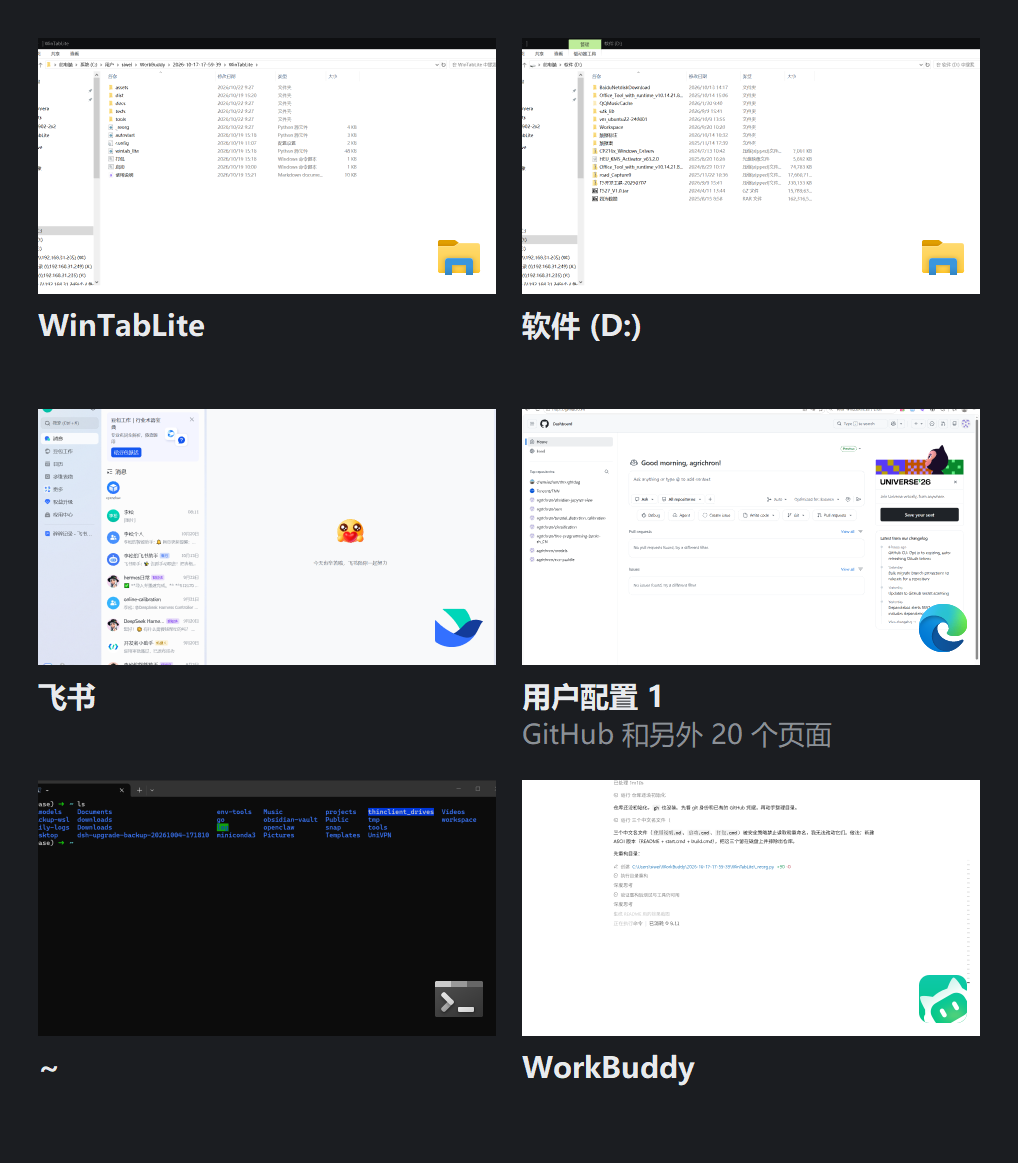
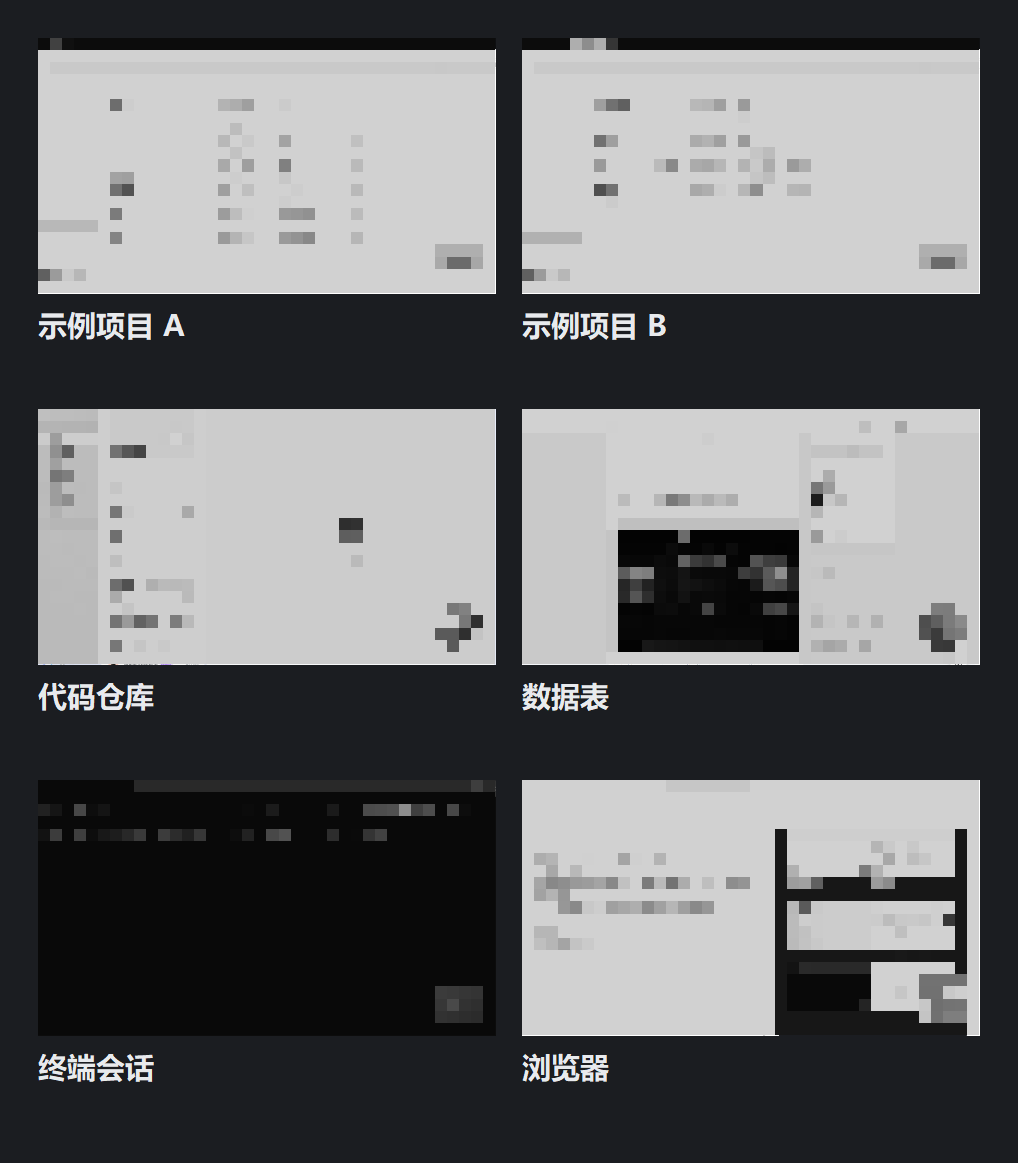
docs: 预览图脱敏，新增 --anon 截图开关
- --anon：标题替换为示例文本，缩略图按 _dest_rects 逐格打灰度马赛克，UI 保持清晰
- docs/preview.png 改用脱敏版

diff --git a/wintab_lite.py b/wintab_lite.py
@@ -730,6 +730,32 @@ class Drawer(QWidget):
                    "#2d9cdb", "#f2c94c", "#56ccf2", "#bb6bd9", "#6fcf97")
         return QColor(palette[zlib.crc32(key.encode("utf-8")) % len(palette)])
 
+    ANON_NAMES = ("示例项目 A", "示例项目 B", "代码仓库", "数据表", "终端会话",
+                  "浏览器", "聊天窗口", "文件管理", "设置", "文档")
+
+    def anonymize(self):
+        """把窗口标题换成示例文本（截图用，避免泄露真实项目名）。"""
+        self.cells = [(c[0], self.ANON_NAMES[i % len(self.ANON_NAMES)], "", c[3])
+                      for i, c in enumerate(self.cells)]
+
+    def mosaic_regions(self, img, block=12):
+        """给每个缩略图区域打灰度马赛克；标题和面板 UI 保持清晰。"""
+        from PIL import Image, ImageEnhance
+        for r in self._dest_rects.values():
+            box = (max(0, r.x()), max(0, r.y()),
+                   min(img.width, r.right()), min(img.height, r.bottom()))
+            w, h = box[2] - box[0], box[3] - box[1]
+            if w < 8 or h < 8:
+                continue
+            crop = img.crop(box)
+            small = crop.resize((max(1, w // block), max(1, h // block)), Image.NEAREST)
+            tile = small.resize((w, h), Image.NEAREST)
+            # 去色 + 压暗：明确的"已遮挡"观感，不会用颜色暗示原内容
+            tile = ImageEnhance.Color(tile).enhance(0.0)
+            tile = ImageEnhance.Brightness(tile).enhance(0.82)
+            img.paste(tile, box[:2])
+        return img
+
     def _icon_for(self, exe):
         if not exe:
             return None
@@ -1218,17 +1244,24 @@ def main():
         QTimer.singleShot(600, app.drawer.open)
 
         def _grab():
-            from PIL import ImageGrab
+            from PIL import Image, ImageGrab
             d = app.drawer
+            anon = "--anon" in sys.argv
+            if anon:
+                d.anonymize()          # 标题换成示例文本
             d._place_thumbs()
+            d.update()
             app.qapp.processEvents()
             dpr = d.devicePixelRatioF() if hasattr(d, "devicePixelRatioF") else 1.0
             g = app.drawer.geometry()
             box = (int(g.x() * dpr), int(g.y() * dpr),
                    int((g.x() + g.width()) * dpr), int((g.y() + g.height()) * dpr))
             img = ImageGrab.grab(bbox=box, all_screens=True)
+            if anon:
+                img = d.mosaic_regions(img)    # 缩略图内容打码
             img.save(out)
-            print("saved %s %s dpr=%.2f geom=%s" % (out, img.size, dpr, g))
+            print("saved %s %s dpr=%.2f geom=%s%s" % (out, img.size, dpr, g,
+                                                      "  (已脱敏)" if anon else ""))
             app.qapp.quit()
 
         QTimer.singleShot(1600, _grab)

diff --git a/docs/usage.zh-CN.md b/docs/usage.zh-CN.md
@@ -117,9 +117,13 @@ build.cmd
 
 ```bat
 python wintab_lite.py --shot out.png   # 不开常驻，直接把面板画出来存图
+python wintab_lite.py --shot out.png --anon   # 同上，但脱敏：标题换示例文本 + 缩略图灰度马赛克
 python wintab_lite.py --show           # 直接显示面板，不进托盘
 python tests/selftest.py               # 自检：枚举/标题/缩略图/焦点
 ```
+
+`--anon` 用于生成可以公开的截图：它先把 `cells` 里的真实标题替换成「示例项目 A / 代码仓库 / 数据表 …」，
+再按 `_dest_rects`（DWM 缩略图的落点）逐格做灰度马赛克，标题文字与面板 UI 保持清晰。
 
 `tests/` 下是**手工验证脚本**，会用真实鼠标点击、真实窗口，不是单元测试：
 

diff --git a/README.md b/README.md
@@ -4,6 +4,8 @@
 
 ![预览](docs/preview.png)
 
+<sub>预览图做过脱敏：窗口标题替换为示例文本，缩略图内容打了灰度马赛克。</sub>
+
 ## 为什么写这个
 
 - **Win + Tab** 铺满整个屏幕，遮挡一切，而且切换后还要再等它收起；
